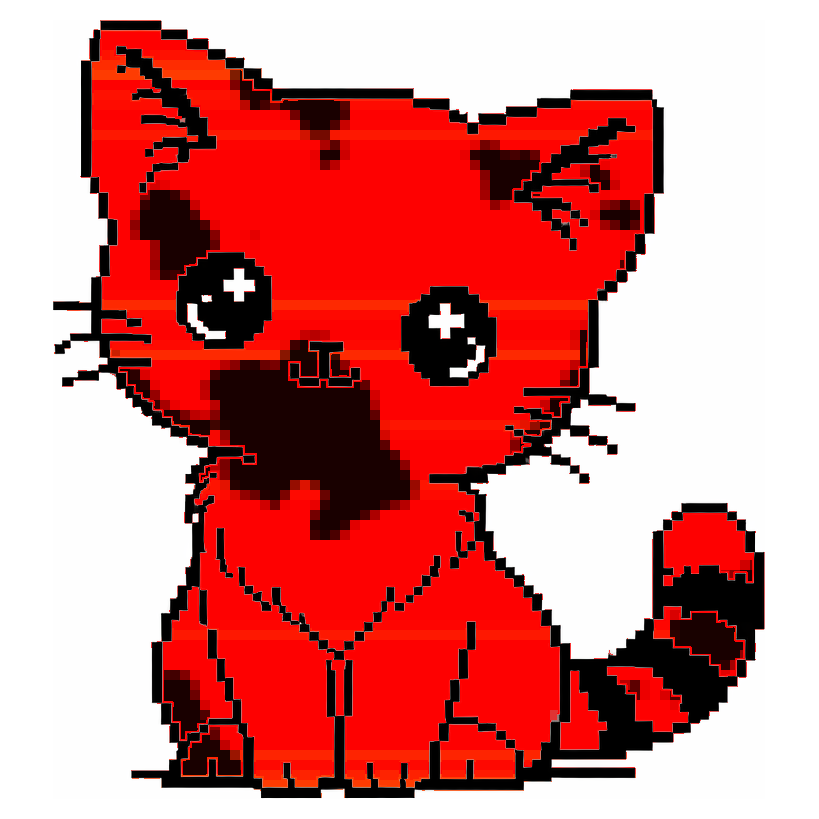
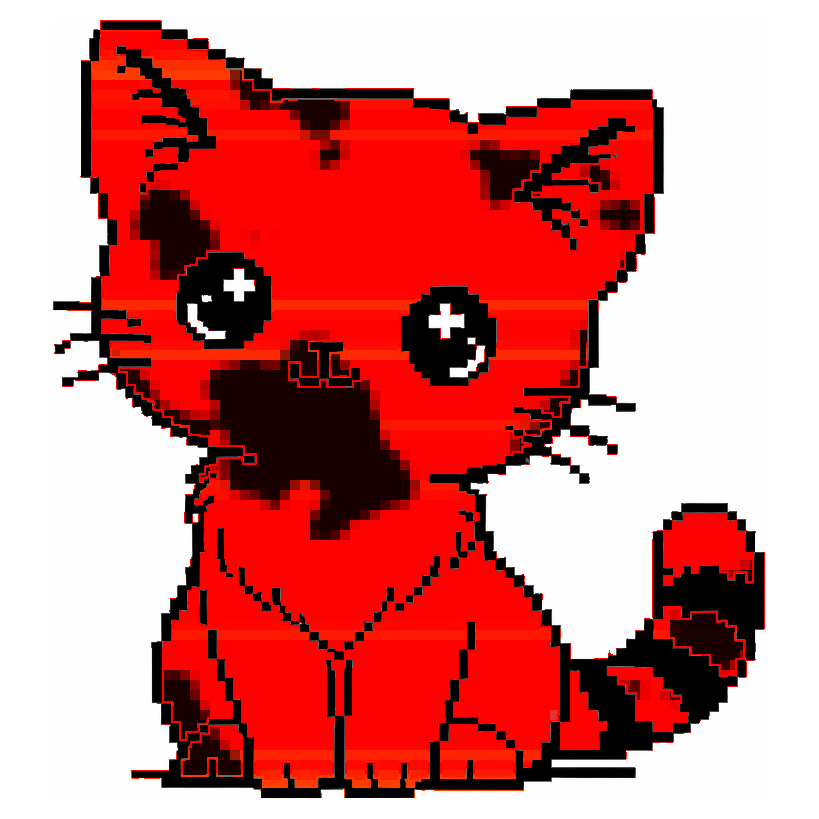
Force full quant color tint in detail buffer zone
Detail buffer pixels now get blend=1.0 instead of the brightness-based
blend, eliminating white halos around outlines in the buffer zone.
Particularly visible on pixcat where anti-aliased pixels at brightness
~240 were only getting ~89% tint.

https://claude.ai/code/session_01Y1zeYokrXQCEx2qjFvhX8B

diff --git a/excat.py b/excat.py
@@ -584,7 +584,11 @@ def generate_excat(
                 r, g, b, a = pixels[x, y]
                 brightness = (r + g + b) / 3
                 if brightness > 120:
-                    blend = min(1.0, (brightness - 120) / 135.0)
+                    # Detail buffer pixels get full tint to avoid white halos
+                    if detail_buf[y][x]:
+                        blend = 1.0
+                    else:
+                        blend = min(1.0, (brightness - 120) / 135.0)
                     nr = int(r + blend * (color[0] - r))
                     ng = int(g + blend * (color[1] - g))
                     nb = int(b + blend * (color[2] - b))
